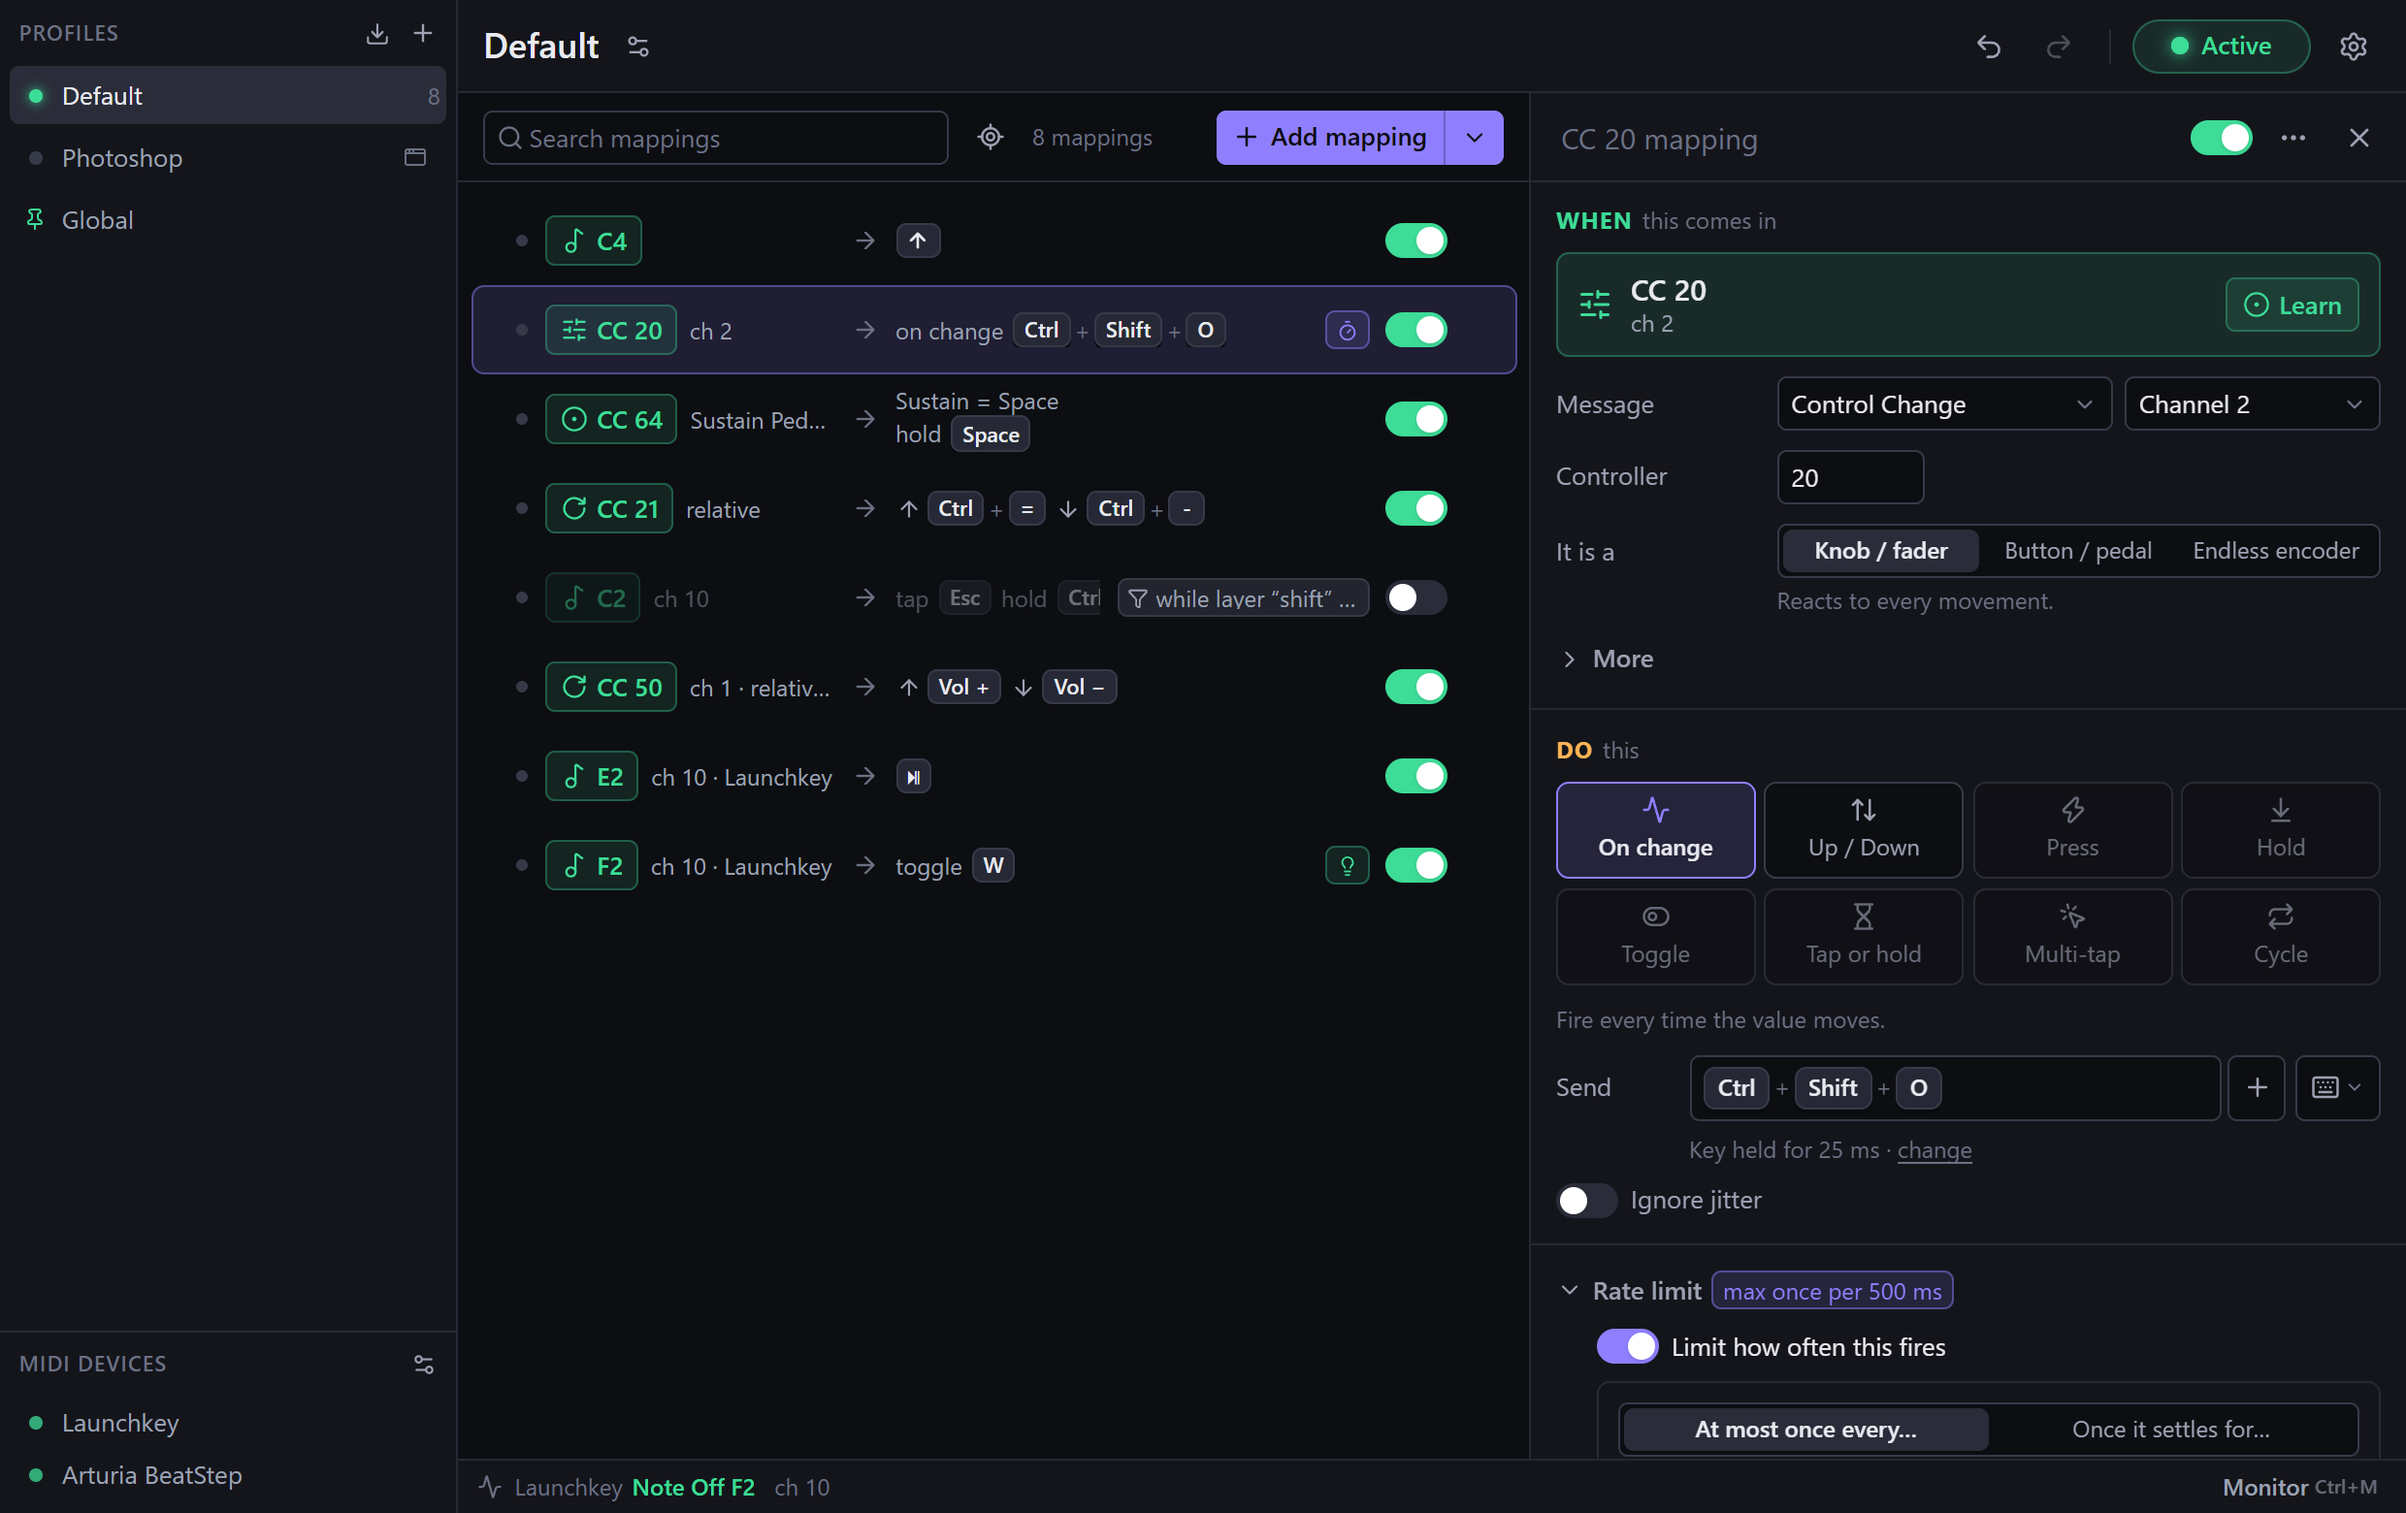
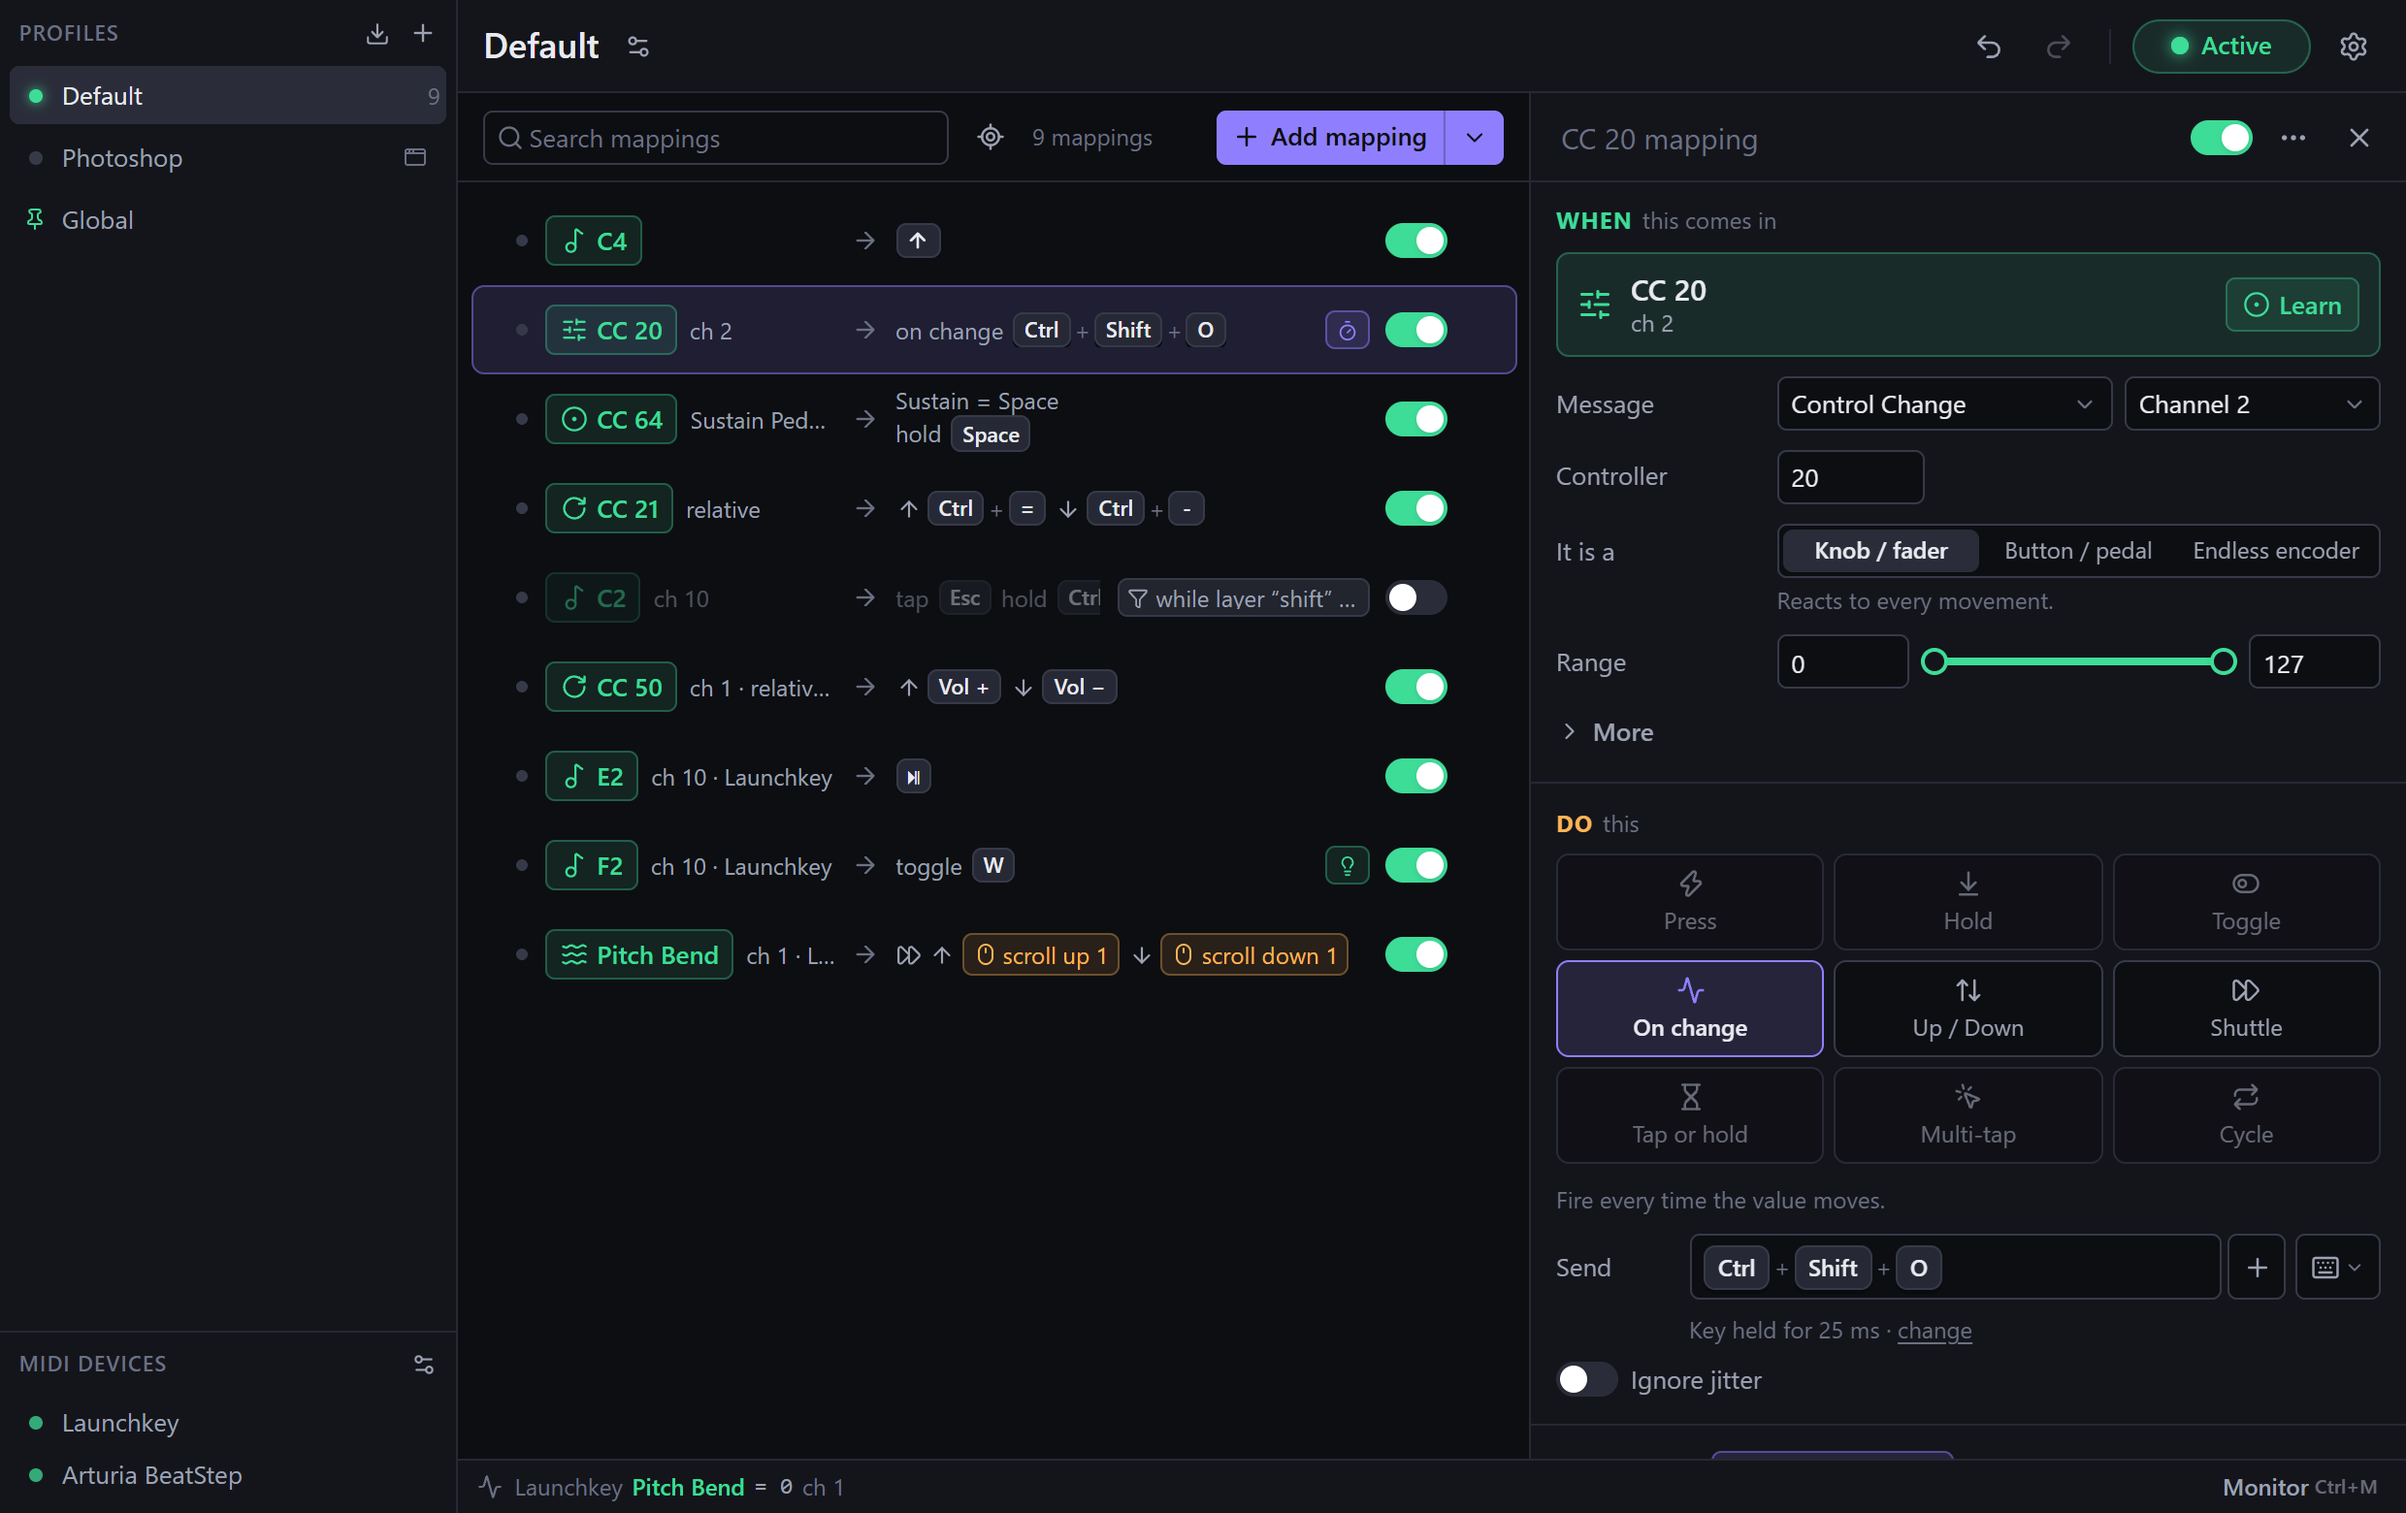
A shuttle's row keeps to its sign and its actions when the list is narrow (the words come back when there is room); action chips give way instead of running over what follows; Rescan now says what it is for; README screenshot with the new editor

diff --git a/src/features/mappings/tokens.tsx b/src/features/mappings/tokens.tsx
@@ -8,6 +8,7 @@ import {
   Binary,
   CircleDot,
   ExternalLink,
+  FastForward,
   Gauge,
   Layers,
   ListMusic,
@@ -82,7 +83,9 @@ function Token({ icon, children, muted }: { icon: ReactNode; children: ReactNode
   return (
     <span
       className={cn(
-        "inline-flex h-[22px] max-w-full items-center gap-1 rounded-[5px] border px-1.5 text-sm whitespace-nowrap",
+        // `min-w-0`: next to an arrow or a word it has to give way itself (shortening its text),
+        // or it pushes out of its box and over whatever comes after it.
+        "inline-flex h-[22px] max-w-full min-w-0 items-center gap-1 rounded-[5px] border px-1.5 text-sm whitespace-nowrap",
         muted ? "border-line-strong bg-hover text-fg-faint italic" : "border-key-line bg-key-soft text-key",
       )}
     >
@@ -261,8 +264,14 @@ export function BehaviorSummary({ behavior, event = null }: { behavior: Behavior
       const up = sides.up && b.up && !isEmptyAction(b.up) ? b.up : null;
       const down = sides.down && b.down && !isEmptyAction(b.down) ? b.down : null;
       const both = sides.up && sides.down;
+      if (!up && !down) return <Verb>does nothing yet</Verb>;
+      // The shuttle's own sign always; the words only where the list is wide enough for the
+      // actions and the words (with the editor open, the actions matter more).
       return (
         <>
+          <span className="inline-flex shrink-0 text-fg-muted" title="Repeats for as long as the control is pushed away from rest — faster the further">
+            <FastForward size={13} />
+          </span>
           {up && (
             <span className="inline-flex min-w-0 items-center gap-1">
               {both && <ArrowUp size={13} className="shrink-0 text-fg-muted" />}
@@ -275,7 +284,7 @@ export function BehaviorSummary({ behavior, event = null }: { behavior: Behavior
               <ActionView action={down} />
             </span>
           )}
-          <Verb>{up || down ? "· faster the further" : "does nothing yet"}</Verb>
+          <span className="hidden shrink-0 text-sm text-fg-muted @min-[900px]:inline">· faster the further</span>
         </>
       );
     }

diff --git a/src/features/shell/Dialogs.tsx b/src/features/shell/Dialogs.tsx
@@ -286,7 +286,11 @@ export function DevicesDialog({ open, onOpenChange }: { open: boolean; onOpenCha
       description="Devices are picked up as soon as they are plugged in. Give them a friendlier name, or switch off the ones this app should leave alone."
       width={620}
       footer={
-        <Button icon={<RefreshCw size={13} />} onClick={async () => (await api()).rescanDevices()}>
+        <Button
+          icon={<RefreshCw size={13} />}
+          title="Looks for devices again and reopens the connected ones: the fix when a controller has gone quiet (after the computer slept, after a loose cable)"
+          onClick={async () => (await api()).rescanDevices()}
+        >
           Rescan now
         </Button>
       }
